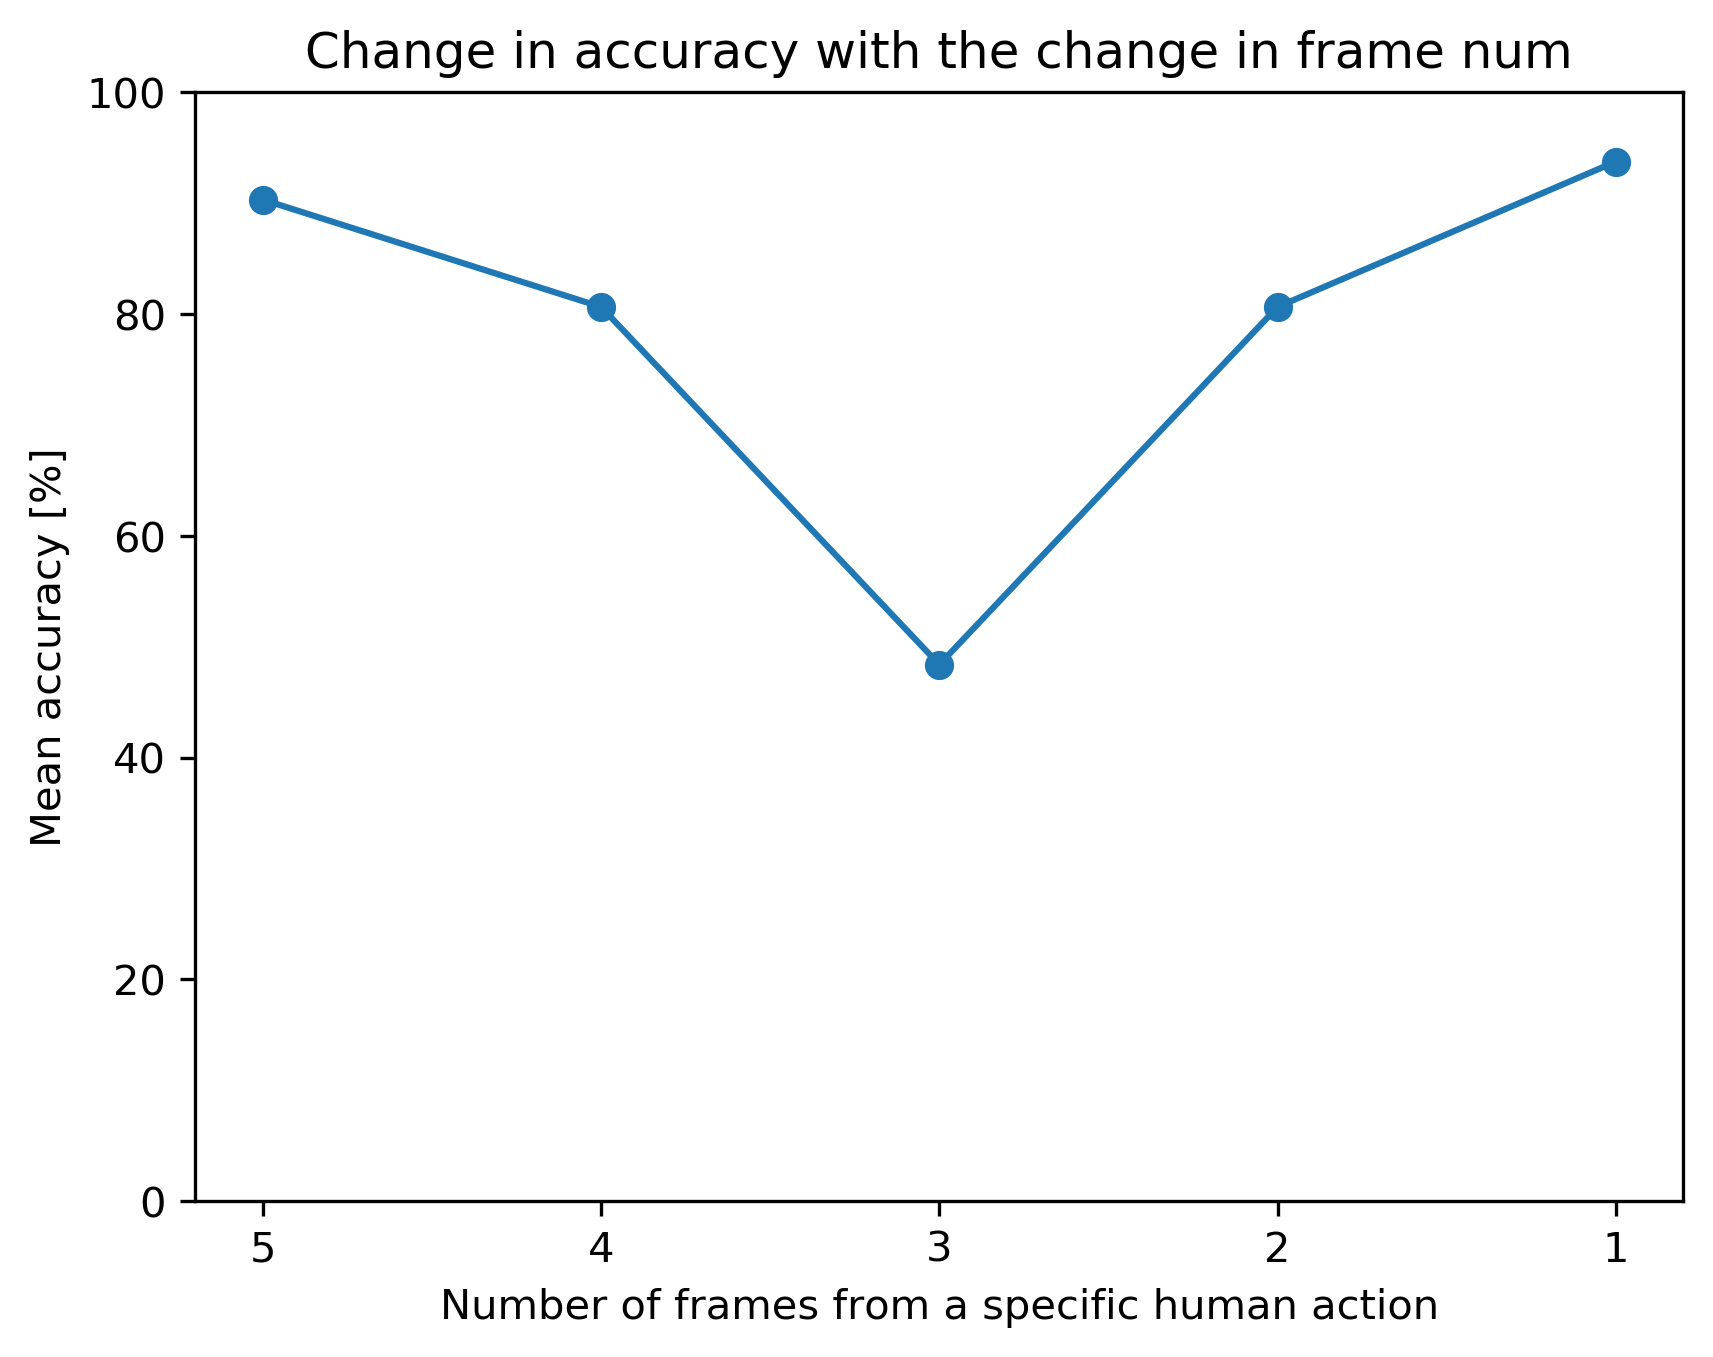
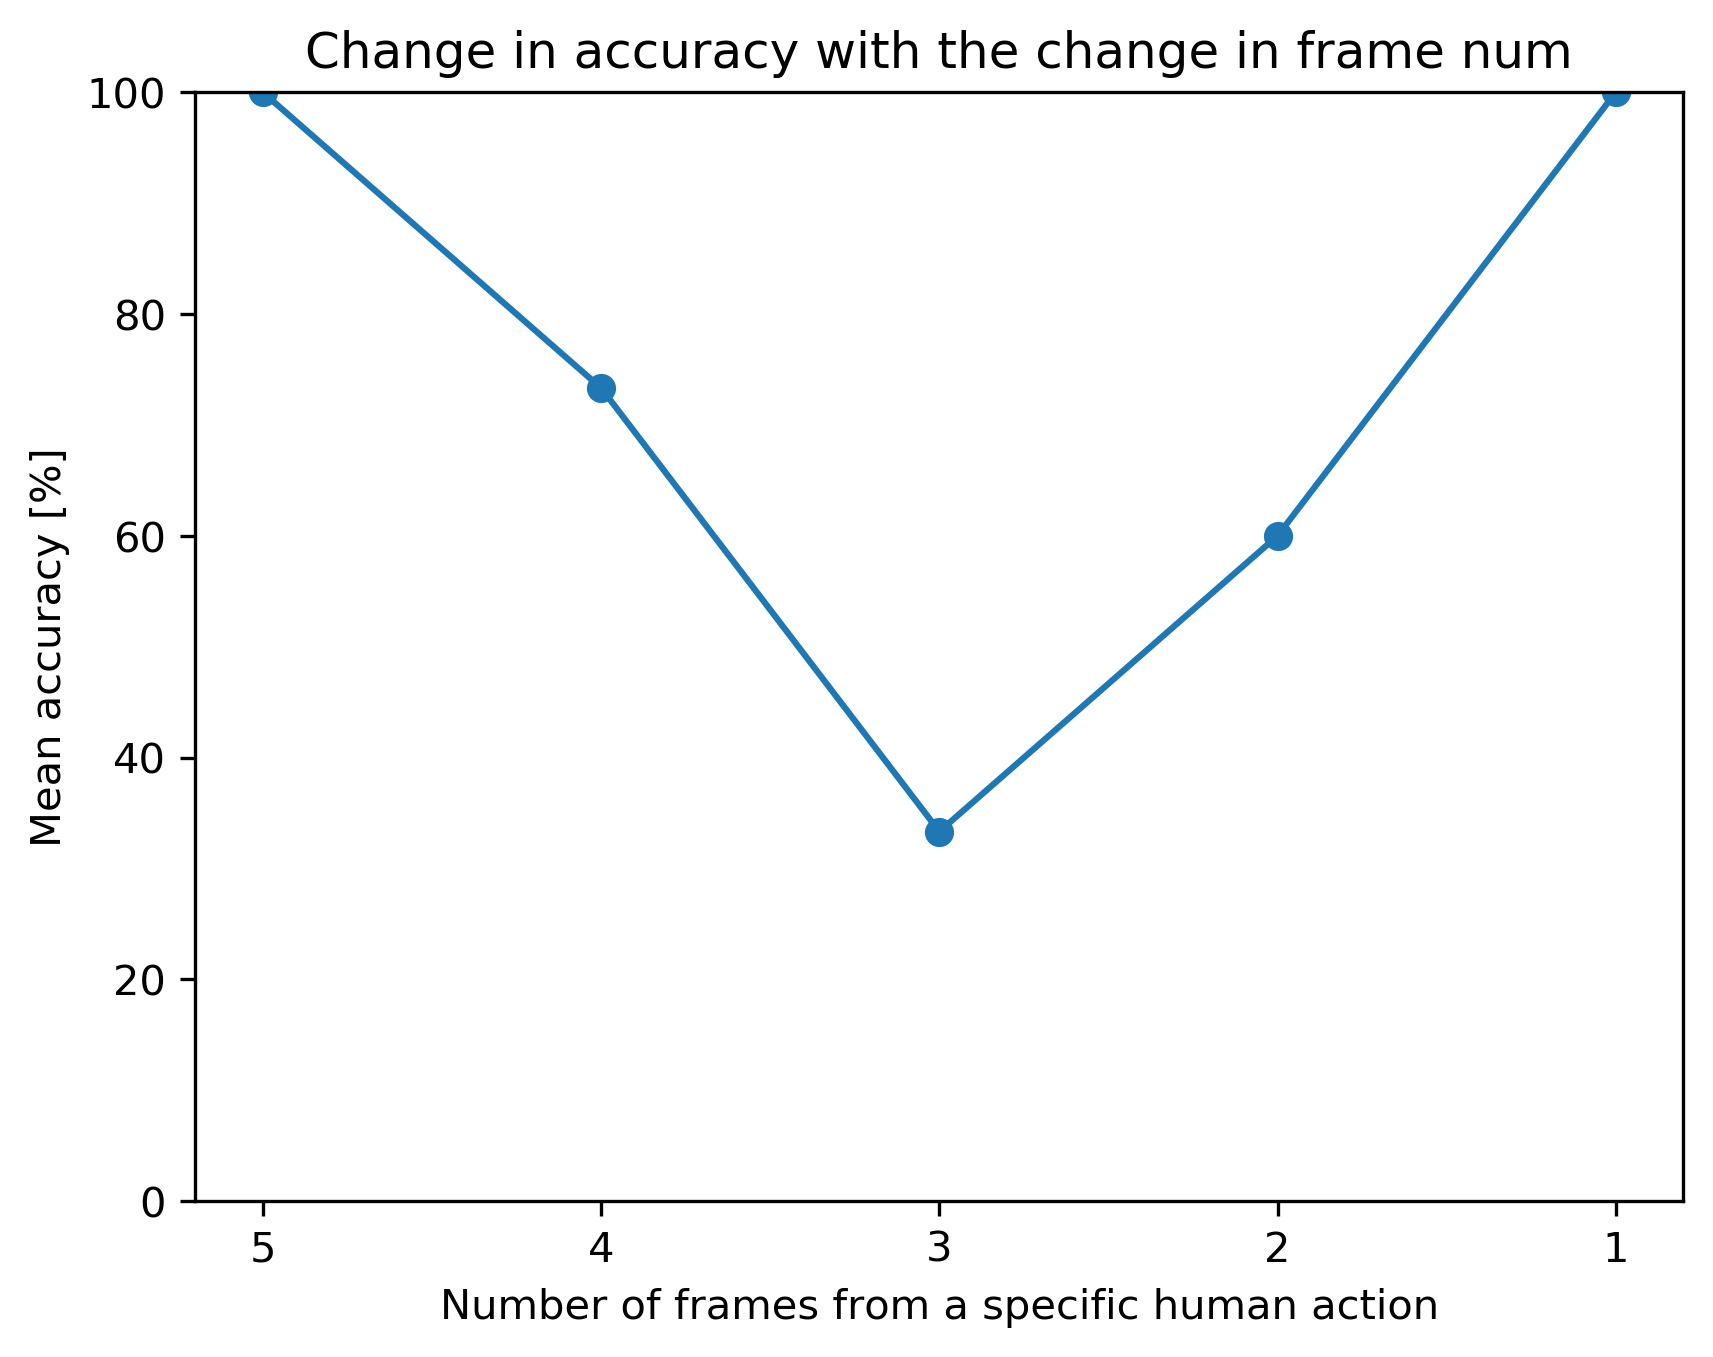
WIP Readme

diff --git a/train.py b/train.py
@@ -14,7 +14,7 @@ import os
 
 parser = argparse.ArgumentParser(description='UCF101 Action Recognition, LRCN architecture')
 parser.add_argument('--epochs', default=100, type=int, help='number of total epochs')
-parser.add_argument('--batch-size', default=32, type=int, help='mini-batch size (default:32)')
+parser.add_argument('--batch-size', default=16, type=int, help='mini-batch size (default:32)')
 parser.add_argument('--lr', default=5e-4, type=float, help='initial learning rate (default:5e-4')
 parser.add_argument('--num_workers', default=4, type=int,
                     help='initial num_workers, the number of processes that generate batches in parallel (default:4)')

diff --git a/README.md b/README.md
@@ -90,7 +90,7 @@ python test.py   --sampled_data_path dir_where_extracted_videos_were_saved\
 ```
 
 - ##### Diverse human actions video test mode:
-    testing the accuracy of the model on a 156 frames** video showing diverse human actions.
+    testing the accuracy of the model on a 80 frames** video showing diverse human actions.
 The video was created by random picking and grouping 5-frames* test videos (down-sampled test videos from the UCF-101 dataset, output of the preprocessing_data.py script).
 
    In this test mode a sliding window of X frames (args.num_frames_to_sample) would be passed on the continues video,
@@ -187,7 +187,7 @@ from the confusion matrix, shown below, we can see that model something confused
 
     <img src="https://github.com/doronharitan/human_activity_recognition_LRCN/blob/master/figuers/The_accuracy_score_for_each_class.png" width="650">
 
-- _**Diverse human actions video test mode**_ - In this test the model reached a classification accuracy of **78.8%**.
+- _**Diverse human actions video test mode**_ - In this test the model reached a classification accuracy of **73.6%**.
    
    ![alt text](https://github.com/doronharitan/human_activity_recognition_LRCN/blob/master/figuers/Video_with_prediction_vs_true_labels.gif) 
    
